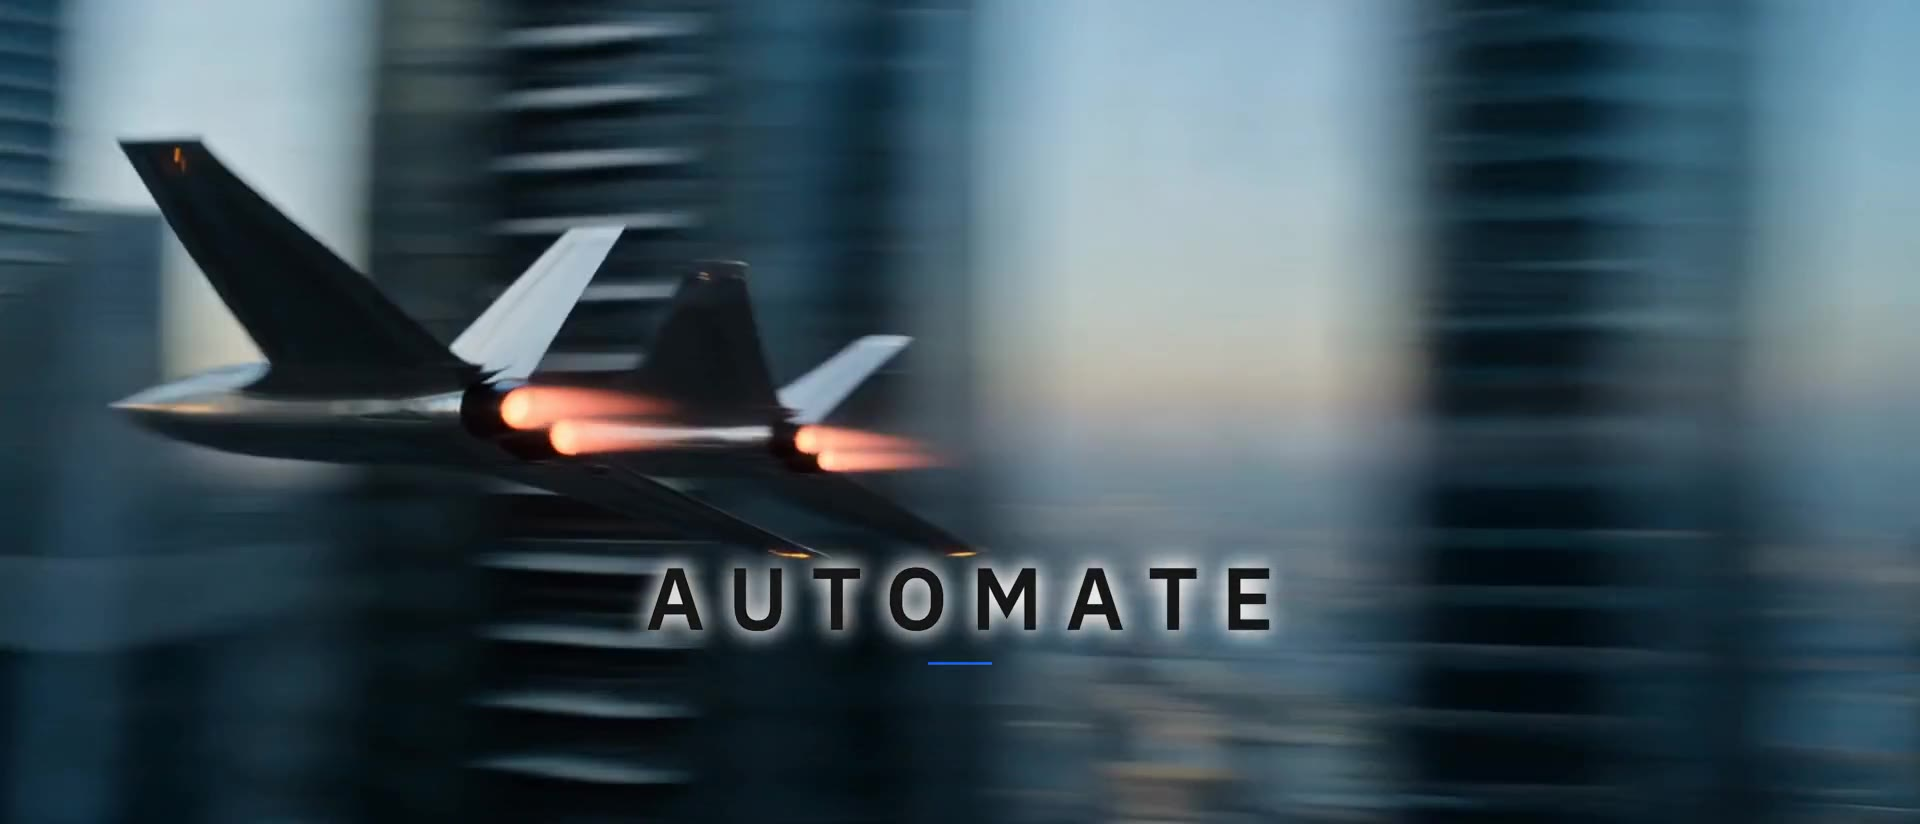
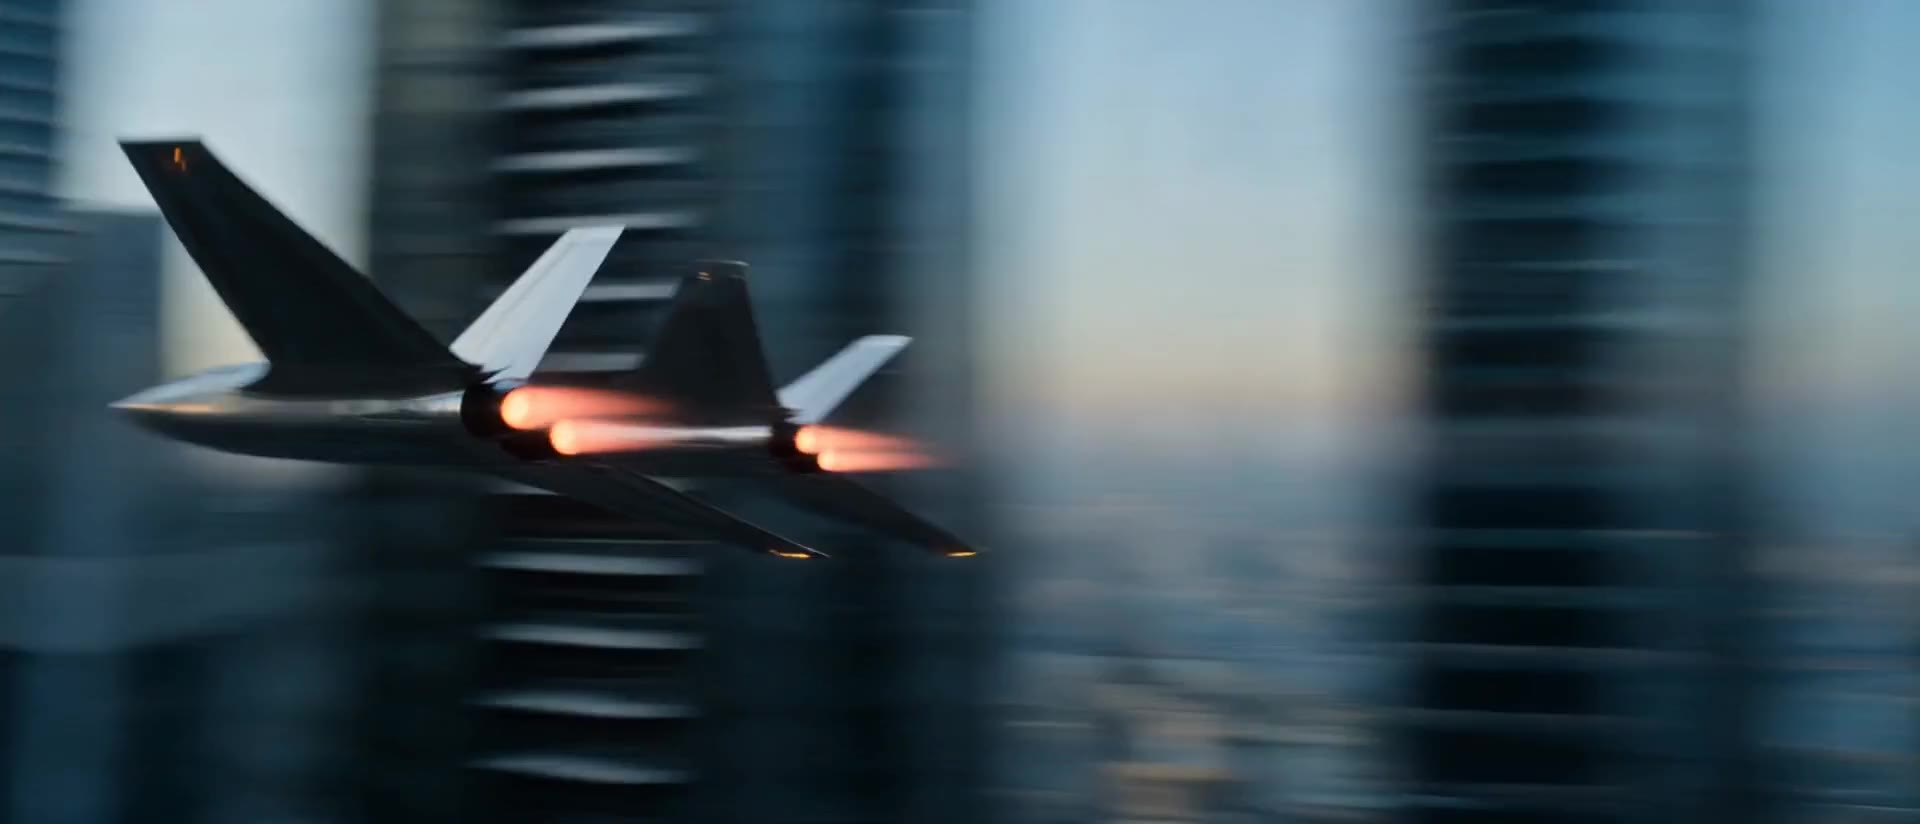
Founder likeness fix, caption cleanup, city-only band loop
- Regenerated the founder walk + glass-flowchart scenes: light-medium
  complexion locked to the reference photo, solid build, even frontal
  light (was rendering too dark and too slim).
- Removed all captions from the hero film — the hero copy already
  carries the words; film is now pure footage + typeset logo outro.
- Band now plays band-web/band-mobile: a 7s city-only loop cut from the
  skyline recut (aerial, trading screens, documents, servers, towers,
  waterfront) — no AI stand-in people that could be mistaken for the
  founder. The only person on the page is him, in the hero film.

Changed region(s): [[0.3125, 0.6675, 0.6875, 0.7888]]

diff --git a/docs/index.html b/docs/index.html
@@ -627,7 +627,7 @@
 <!-- ================= CINEMA — city film band ================= -->
 <section class="cinema" aria-label="Sophon Finance Systems film, part two">
   <video id="heroVid2" autoplay muted loop playsinline preload="metadata" poster="assets/band-poster.jpg">
-    <source src="assets/hero-web.mp4" type="video/mp4">
+    <source src="assets/band-web.mp4" type="video/mp4">
   </video>
   <div class="cinema-wash"></div>
   <div class="cinema-words" aria-hidden="true"><span id="cinemaWord"></span></div>
@@ -1104,7 +1104,7 @@
   document.querySelectorAll('.count').forEach(function (el) { cio.observe(el); });
 })();
 </script>
-<script>(function(){var small=Math.min(screen.width,screen.height)<=820||(navigator.connection&&navigator.connection.saveData);function prep(id,mob){var v=document.getElementById(id);if(!v)return null;if(small){v.querySelector("source").src=mob;v.load();}return v;}var v1=prep("heroVid","assets/film-mobile.mp4");if(v1){var p=v1.play();if(p&&p.catch)p.catch(function(){});}var v2=prep("heroVid2","assets/hero-mobile.mp4");if(v2&&"IntersectionObserver"in window){new IntersectionObserver(function(es){es.forEach(function(e){if(e.isIntersecting){if(!v2.dataset.l){v2.load();v2.dataset.l=1;}var q=v2.play();if(q&&q.catch)q.catch(function(){});}else{v2.pause();}});},{rootMargin:"200px"}).observe(v2);}else if(v2){v2.load();var r=v2.play();if(r&&r.catch)r.catch(function(){});}var v3=prep("heroVid3","assets/contact-mobile.mp4");if(v3&&"IntersectionObserver"in window){new IntersectionObserver(function(es){es.forEach(function(e){if(e.isIntersecting){if(!v3.dataset.l){v3.load();v3.dataset.l=1;}var q=v3.play();if(q&&q.catch)q.catch(function(){});}else{v3.pause();}});},{rootMargin:"200px"}).observe(v3);}else if(v3){v3.load();var r=v3.play();if(r&&r.catch)r.catch(function(){});}})();</script>
+<script>(function(){var small=Math.min(screen.width,screen.height)<=820||(navigator.connection&&navigator.connection.saveData);function prep(id,mob){var v=document.getElementById(id);if(!v)return null;if(small){v.querySelector("source").src=mob;v.load();}return v;}var v1=prep("heroVid","assets/film-mobile.mp4");if(v1){var p=v1.play();if(p&&p.catch)p.catch(function(){});}var v2=prep("heroVid2","assets/band-mobile.mp4");if(v2&&"IntersectionObserver"in window){new IntersectionObserver(function(es){es.forEach(function(e){if(e.isIntersecting){if(!v2.dataset.l){v2.load();v2.dataset.l=1;}var q=v2.play();if(q&&q.catch)q.catch(function(){});}else{v2.pause();}});},{rootMargin:"200px"}).observe(v2);}else if(v2){v2.load();var r=v2.play();if(r&&r.catch)r.catch(function(){});}var v3=prep("heroVid3","assets/contact-mobile.mp4");if(v3&&"IntersectionObserver"in window){new IntersectionObserver(function(es){es.forEach(function(e){if(e.isIntersecting){if(!v3.dataset.l){v3.load();v3.dataset.l=1;}var q=v3.play();if(q&&q.catch)q.catch(function(){});}else{v3.pause();}});},{rootMargin:"200px"}).observe(v3);}else if(v3){v3.load();var r=v3.play();if(r&&r.catch)r.catch(function(){});}})();</script>
 <script>
 // City film band (below the hero): rotate one corporate power word in/out every
 // ~5.5s over the skyline recut — lower-left film-super styling with the blue rule.